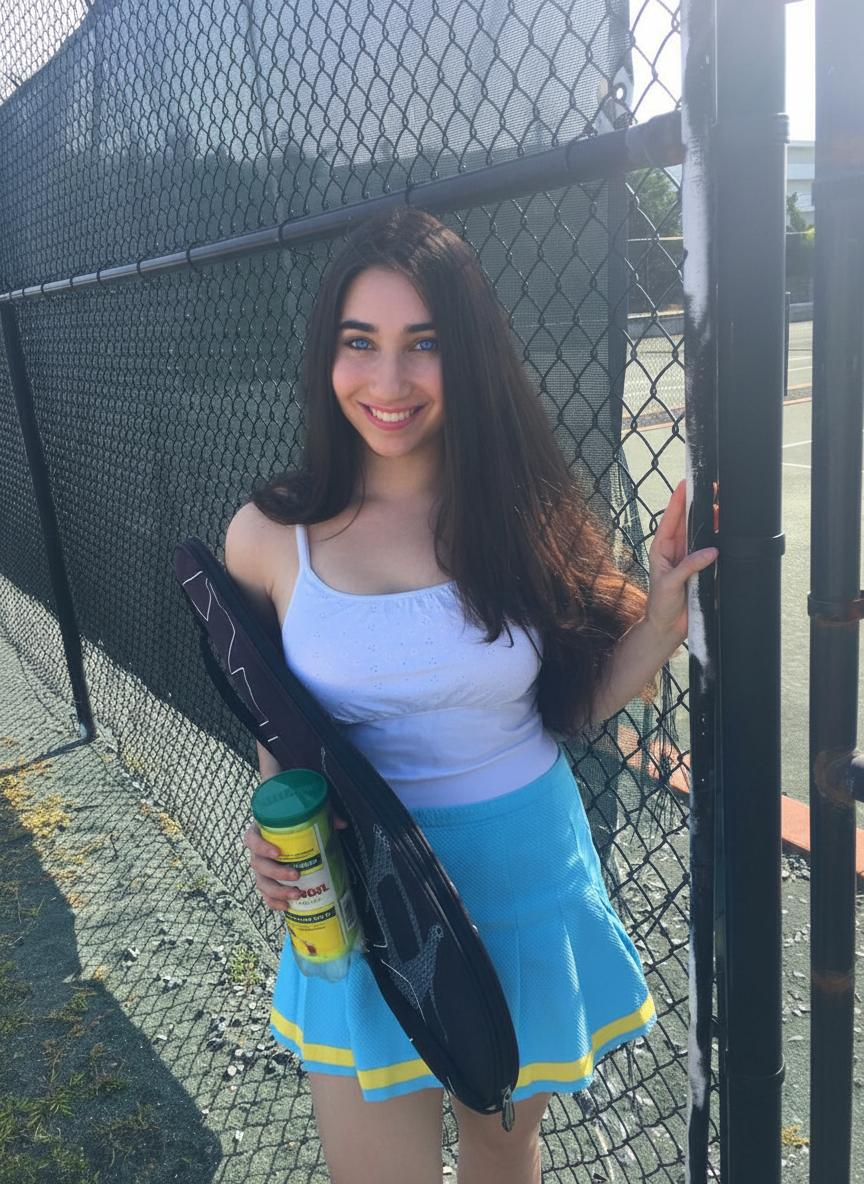
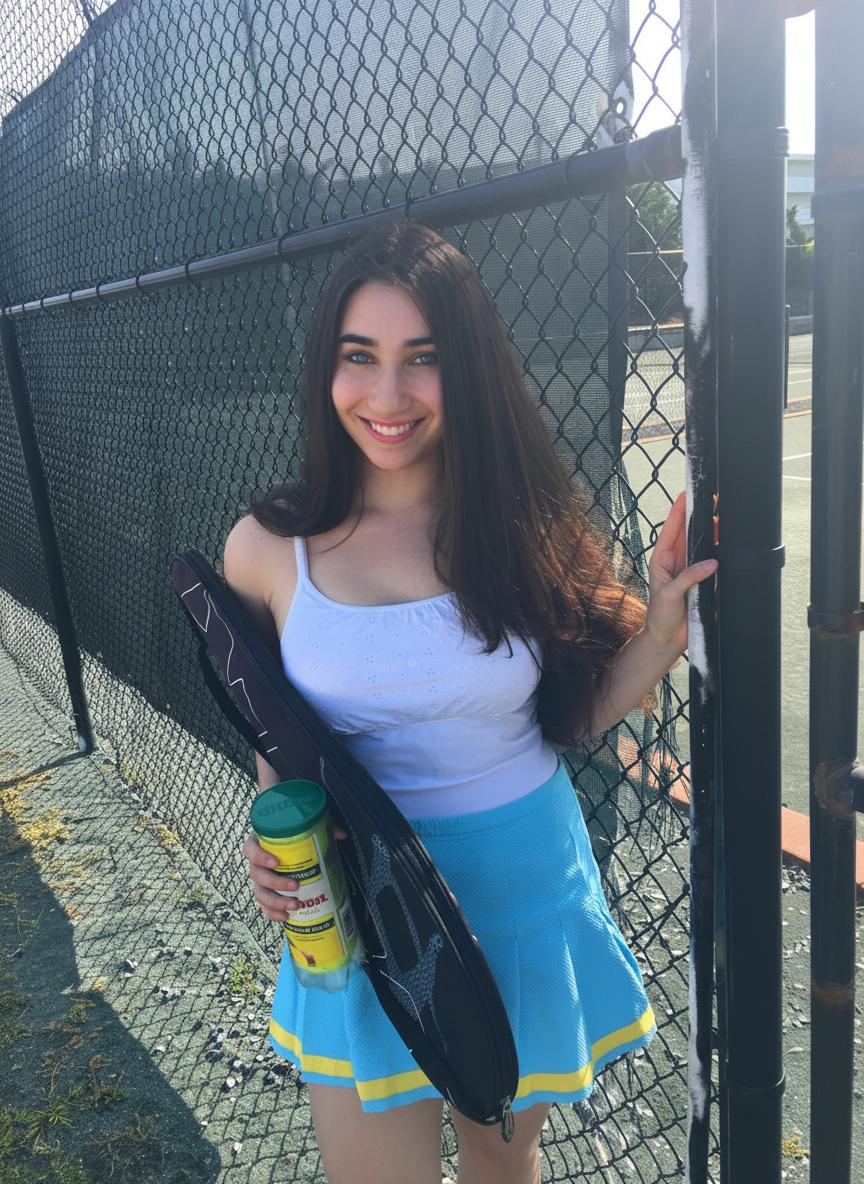
Fix basic photo adjustments for brightness, contrast, and saturation
Refactor the image enhancement process to apply basic adjustments (brightness, contrast, saturation) using PIL before leveraging Gemini AI, and update the JavaScript to no longer include these in the AI prompt.

Replit-Commit-Author: Agent
Replit-Commit-Session-Id: 86b611ed-cbe9-427b-ac07-ba54e4de5fb0
Replit-Commit-Checkpoint-Type: full_checkpoint
Replit-Commit-Screenshot-Url: https://storage.googleapis.com/screenshot-production-us-central1/d6c99e5c-17a5-4d23-be26-6541928803b8/86b611ed-cbe9-427b-ac07-ba54e4de5fb0/6J9KNrN

diff --git a/static/js/main.js b/static/js/main.js
@@ -414,16 +414,7 @@ function createPromptFromSelections(enhancements) {
         changes.push(`change expression to ${enhancements.expression}`);
     }
     
-    // Basic adjustments (only include if significantly changed)
-    if (Math.abs(enhancements.brightness) > 10) {
-        changes.push(`adjust brightness ${enhancements.brightness > 0 ? 'brighter' : 'darker'}`);
-    }
-    if (Math.abs(enhancements.contrast) > 10) {
-        changes.push(`adjust contrast ${enhancements.contrast > 0 ? 'higher' : 'lower'}`);
-    }
-    if (Math.abs(enhancements.saturation) > 10) {
-        changes.push(`adjust saturation ${enhancements.saturation > 0 ? 'more vibrant' : 'more muted'}`);
-    }
+    // Basic adjustments are now handled by PIL, not included in AI prompt
     
     // Body adjustments (only include if significantly changed)
     if (Math.abs(enhancements.height) > 5) {

diff --git a/static/css/style.css b/static/css/style.css
@@ -148,6 +148,7 @@
 
 /* AI Prompt styling */
 #enhancementPrompt {
+    color: black;
     border: 2px solid var(--bs-primary);
     border-radius: 8px;
     font-size: 0.95rem;

diff --git a/utils.py b/utils.py
@@ -48,7 +48,7 @@ def get_all_images():
 
 def enhance_image(original_path, enhanced_path, enhancements, enhancement_prompt="", source_image_path=None):
     """
-    Apply AI-powered enhancements to an image using Gemini
+    Apply both PIL basic adjustments and AI-powered enhancements to an image
     
     Args:
         original_path: Path to original image
@@ -61,25 +61,103 @@ def enhance_image(original_path, enhanced_path, enhancements, enhancement_prompt
         bool: True if successful, False otherwise
     """
     try:
-        # Initialize Gemini enhancer
-        enhancer = GeminiEnhancer()
+        # Determine input path
+        input_path = source_image_path if source_image_path else original_path
         
-        # Use Gemini AI enhancement (supports conversational editing)
-        success = enhancer.enhance_image(
-            original_path, 
-            enhanced_path, 
-            enhancements, 
-            enhancement_prompt,
-            source_image_path
+        # Check if we have basic adjustments (brightness, contrast, saturation)
+        has_basic_adjustments = (
+            abs(enhancements.get('brightness', 0)) > 0 or
+            abs(enhancements.get('contrast', 0)) > 0 or
+            abs(enhancements.get('saturation', 0)) > 0
         )
         
-        if success:
-            app.logger.info(f"Enhanced image saved to {enhanced_path}")
-            return True
+        # Check if we have AI features or text prompt
+        has_ai_features = (
+            enhancement_prompt.strip() or
+            any(enhancements.get(key) for key in ['eyeColor', 'hairColor', 'makeup', 'background', 'lighting', 'clothing', 'skinTone', 'expression'])
+        )
+        
+        temp_path = None
+        
+        # Step 1: Apply basic PIL adjustments first if needed
+        if has_basic_adjustments:
+            temp_path = enhanced_path.replace('.', '_temp.')
+            success = _apply_basic_adjustments(input_path, temp_path, enhancements)
+            if not success:
+                return False
+            input_path = temp_path  # Use adjusted image as input for AI
+        
+        # Step 2: Apply AI enhancements if needed
+        if has_ai_features:
+            enhancer = GeminiEnhancer()
+            success = enhancer.enhance_image(
+                original_path,  # Always pass original for reference
+                enhanced_path, 
+                enhancements, 
+                enhancement_prompt,
+                input_path  # This will be temp_path if we did basic adjustments
+            )
+            if not success:
+                return False
+        elif has_basic_adjustments and temp_path:
+            # Only basic adjustments, move temp file to final destination
+            os.rename(temp_path, enhanced_path)
         else:
-            app.logger.error("Image enhancement failed")
-            return False
-            
+            # No adjustments requested, just copy original
+            Image.open(input_path).save(enhanced_path)
+        
+        # Clean up temp file if it exists
+        if temp_path and os.path.exists(temp_path) and temp_path != enhanced_path:
+            os.remove(temp_path)
+        
+        app.logger.info(f"Enhanced image saved to {enhanced_path}")
+        return True
+        
     except Exception as e:
         app.logger.error(f"Error enhancing image: {str(e)}")
+        return False
+
+def _apply_basic_adjustments(input_path, output_path, enhancements):
+    """
+    Apply basic PIL adjustments (brightness, contrast, saturation)
+    """
+    try:
+        # Load image
+        image = Image.open(input_path)
+        if image.mode == 'RGBA':
+            image = image.convert('RGB')
+        
+        # Apply brightness adjustment
+        brightness_value = enhancements.get('brightness', 0)
+        if brightness_value != 0:
+            # Convert from -50/+50 range to 0.5/1.5 range
+            brightness_factor = 1.0 + (brightness_value / 100.0)
+            brightness_factor = max(0.1, min(2.0, brightness_factor))  # Clamp to reasonable range
+            enhancer = ImageEnhance.Brightness(image)
+            image = enhancer.enhance(brightness_factor)
+        
+        # Apply contrast adjustment  
+        contrast_value = enhancements.get('contrast', 0)
+        if contrast_value != 0:
+            # Convert from -50/+50 range to 0.5/1.5 range
+            contrast_factor = 1.0 + (contrast_value / 100.0)
+            contrast_factor = max(0.1, min(2.0, contrast_factor))  # Clamp to reasonable range
+            enhancer = ImageEnhance.Contrast(image)
+            image = enhancer.enhance(contrast_factor)
+            
+        # Apply saturation adjustment
+        saturation_value = enhancements.get('saturation', 0)  
+        if saturation_value != 0:
+            # Convert from -50/+50 range to 0.5/1.5 range
+            saturation_factor = 1.0 + (saturation_value / 100.0)
+            saturation_factor = max(0.0, min(2.0, saturation_factor))  # Clamp to reasonable range
+            enhancer = ImageEnhance.Color(image)
+            image = enhancer.enhance(saturation_factor)
+        
+        # Save adjusted image
+        image.save(output_path)
+        return True
+        
+    except Exception as e:
+        app.logger.error(f"Error applying basic adjustments: {str(e)}")
         return False
